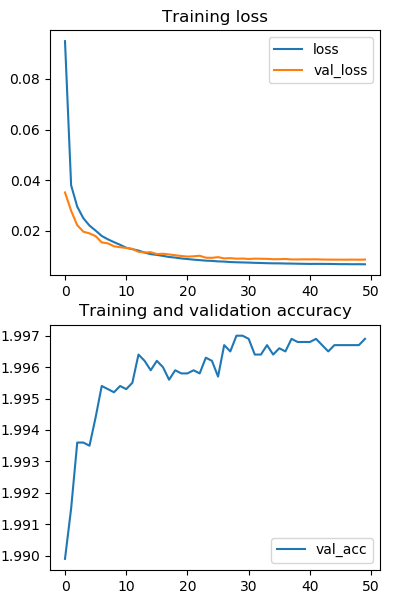
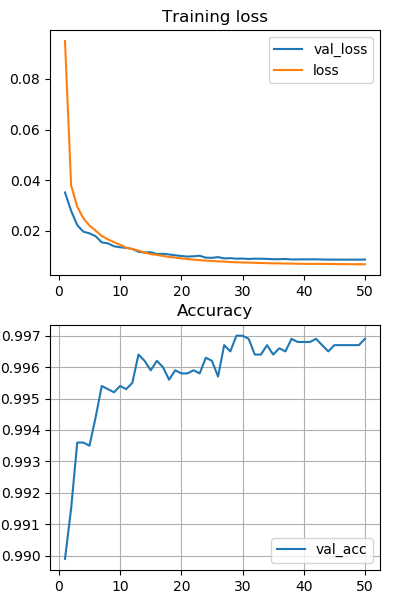
fix log plot

diff --git a/utils.py b/utils.py
@@ -21,7 +21,6 @@ def plot_log(filename, show=True):
                 values.append(float(value))
 
         values = np.reshape(values, newshape=(-1, len(keys)))
-        values[:,0] += 1
 
     fig = plt.figure(figsize=(4,6))
     fig.subplots_adjust(top=0.95, bottom=0.05, right=0.95)
@@ -30,9 +29,11 @@ def plot_log(filename, show=True):
     for i, key in enumerate(keys):
         if key == 'epoch':
             epoch_axis = i
+            values[:, epoch_axis] += 1
             break
     for i, key in enumerate(keys):
         if key.find('loss') >= 0:  # loss
+            print(values[:, i])
             plt.plot(values[:, epoch_axis], values[:, i], label=key)
     plt.legend()
     plt.title('Training loss')
@@ -42,7 +43,8 @@ def plot_log(filename, show=True):
         if key.find('acc') >= 0:  # acc
             plt.plot(values[:, epoch_axis], values[:, i], label=key)
     plt.legend()
-    plt.title('Training and validation accuracy')
+    plt.grid()
+    plt.title('Accuracy')
 
     # fig.savefig('result/log.png')
     if show:

diff --git a/README.md b/README.md
@@ -2,7 +2,7 @@
 [![License](https://img.shields.io/github/license/mashape/apistatus.svg?maxAge=2592000)](https://github.com/XifengGuo/CapsNet-Keras/blob/master/LICENSE)
 
 A Pytorch implementation of CapsNet in the paper:   
-[Sara Sabour, Nicholas Frosst, Geoffrey E Hinton. git. NIPS 2017](https://arxiv.org/abs/1710.09829)   
+[Sara Sabour, Nicholas Frosst, Geoffrey E Hinton. Dynamic Routing Between Capsules. NIPS 2017](https://arxiv.org/abs/1710.09829)   
 The current `average test error = 0.34%` and `best test error = 0.30%`.   
  
 **Differences with the paper:**   
